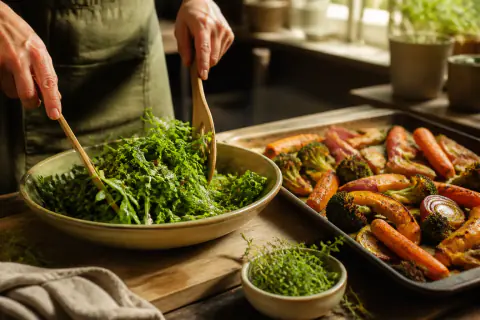
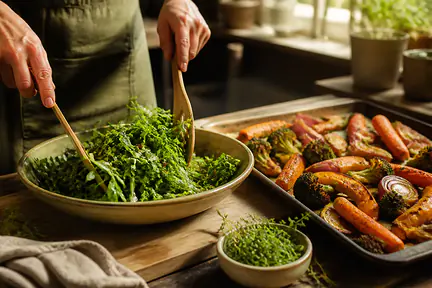
perf: encode the landing thumbnails at 432x288 with an unsharp mask (#520)
The 480x320 files looked soft at 2x and 3x because Chrome resampled an
already-downscaled source (480 -> 432 device px at 3x). 432x288 is
exactly the 144x96 CSS px that object-cover draws in the largest frame
(128x96) at 3x, so there is no resample there. A light unsharp mask
offsets the downscale softness at 1x and 2x.

Recipe: dwebp the 1536x1024 files, Pillow Lanczos resize to 432x288,
UnsharpMask(radius=0.6, percent=60, threshold=0), then
cwebp -m 6 -sharp_yuv -q 76.

Sharpness vs prod (Laplacian variance, after/before), min-max over the
four cards:
  1x 0.64-0.72 -> 1.07-1.18
  2x 0.45-0.51 -> 0.60-0.67
  3x 0.28-0.35 -> 0.89-0.99
Total 74,116 B (drop 360,996 B), each file under 25 KB. The hover zoom
(1.05) upscales by 5% at 3x, only on hover-capable 3x screens.

Refs #520

diff --git a/frontend/src/pages/HomePage.tsx b/frontend/src/pages/HomePage.tsx
@@ -216,8 +216,8 @@ export default function HomePage() {
                     <img
                       src={`/images/tonight-${card.image}-480.webp`}
                       alt=""
-                      width="480"
-                      height="320"
+                      width="432"
+                      height="288"
                       className="h-full w-full object-cover transition-transform duration-500 motion-safe:group-hover:scale-105"
                       onError={(event) => {
                         event.currentTarget.style.visibility = 'hidden';

diff --git a/docs/home-imagery.md b/docs/home-imagery.md
@@ -2,7 +2,7 @@
 
 The four `frontend/public/images/tonight-*.webp` assets were generated for Dinder with the built-in imagegen tool on 7 September 2026. They illustrate the four kinds of night, rather than representing a particular Restaurant, Recipe or Movie. No third-party source photo or attribution requirement was introduced.
 
-The generated PNGs were encoded as WebP at quality 80, preserving their 1536 × 1024 dimensions and composition. Those 1536 × 1024 WebPs were then re-encoded at 480 × 320 (`cwebp -m 6 -sharp_yuv -resize 480 320 -q 76`), which covers the largest card frame (128 × 96) at 3× DPR with `object-cover`, and renamed `tonight-*-480.webp` so no cache keeps serving the 1536 × 1024 files under the old names. Together the served assets are 74 KB, down from 435 KB. The original generated files remain outside the repository. The fixed image frames reserve space before loading; coloured surfaces and readable labels remain on failure.
+The generated PNGs were encoded as WebP at quality 80, preserving their 1536 × 1024 dimensions and composition. Those 1536 × 1024 WebPs were then decoded (`dwebp`), resized to 432 × 288 with Pillow's Lanczos filter, sharpened with `UnsharpMask(radius=0.6, percent=60, threshold=0)` and re-encoded with `cwebp -m 6 -sharp_yuv -q 76`. At 3× DPR, 432 × 288 is exactly the 144 × 96 CSS px that `object-cover` draws in the largest card frame (128 × 96), so the browser does not resample it. The unsharp mask offsets the softness of downscaling at 1× and 2×. The files were renamed `tonight-*-480.webp` so no cache keeps serving the 1536 × 1024 files under the old names. Together the served assets are 74 KB, down from 435 KB. The original generated files remain outside the repository. The fixed image frames reserve space before loading; coloured surfaces and readable labels remain on failure.
 
 ## Prompts
 
